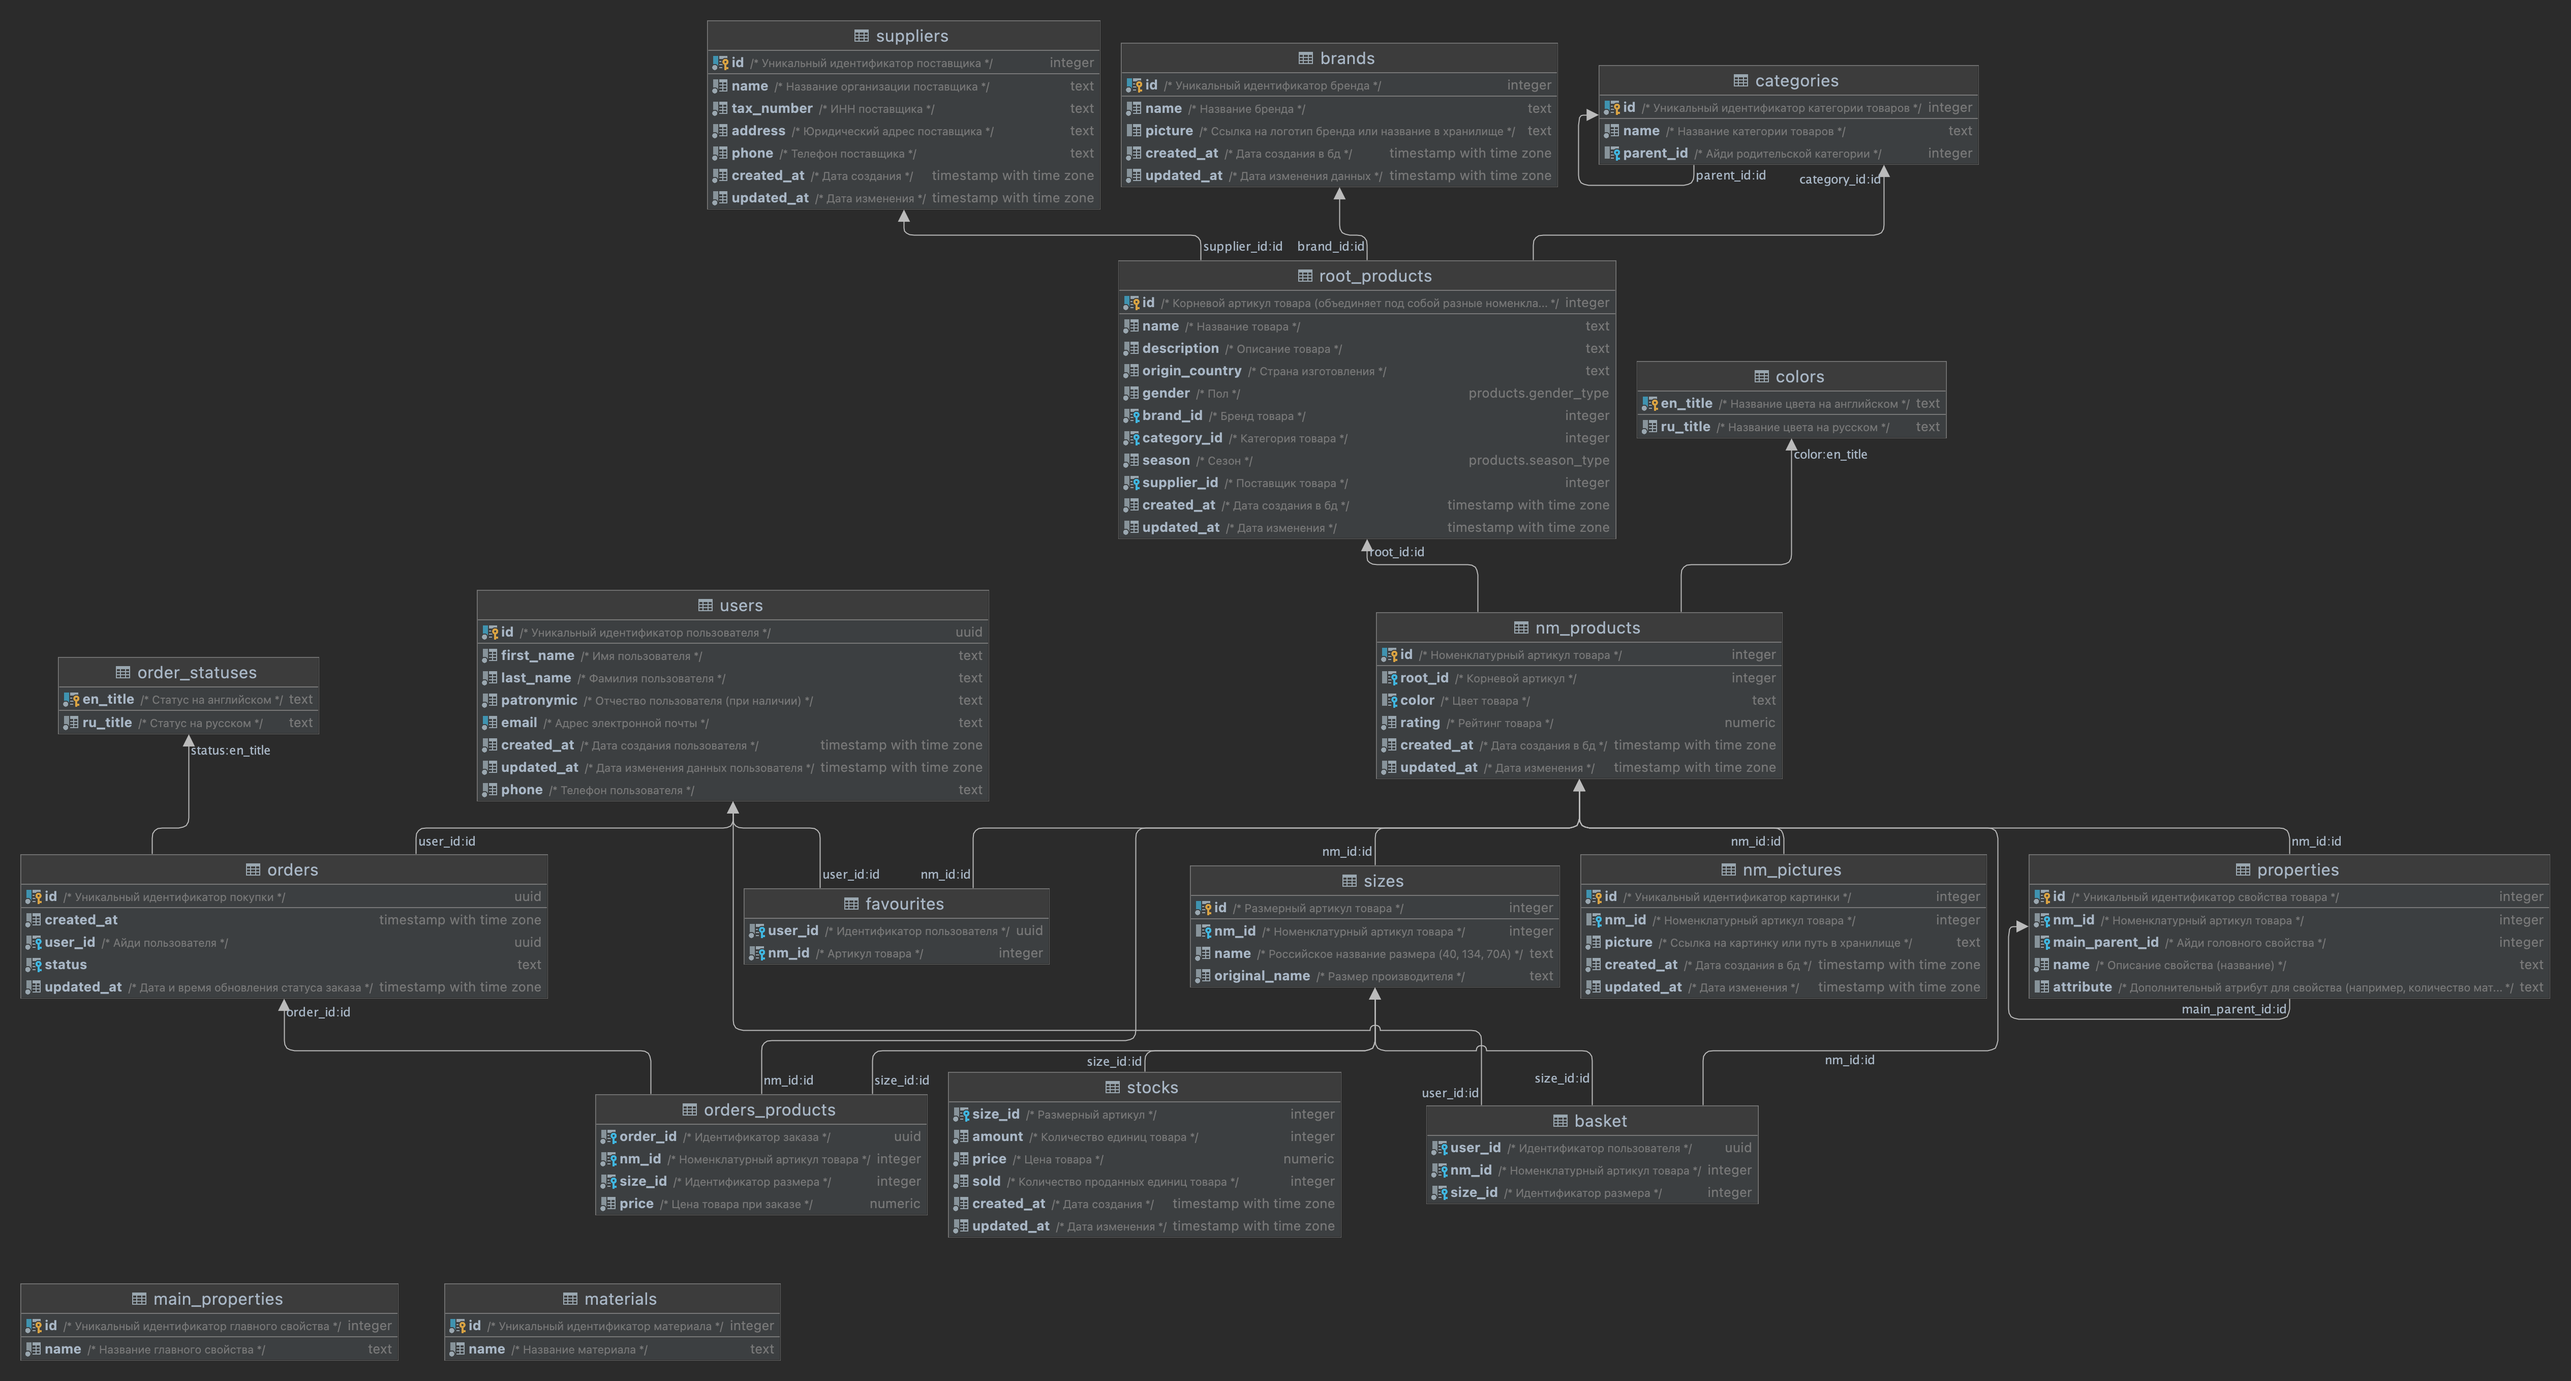
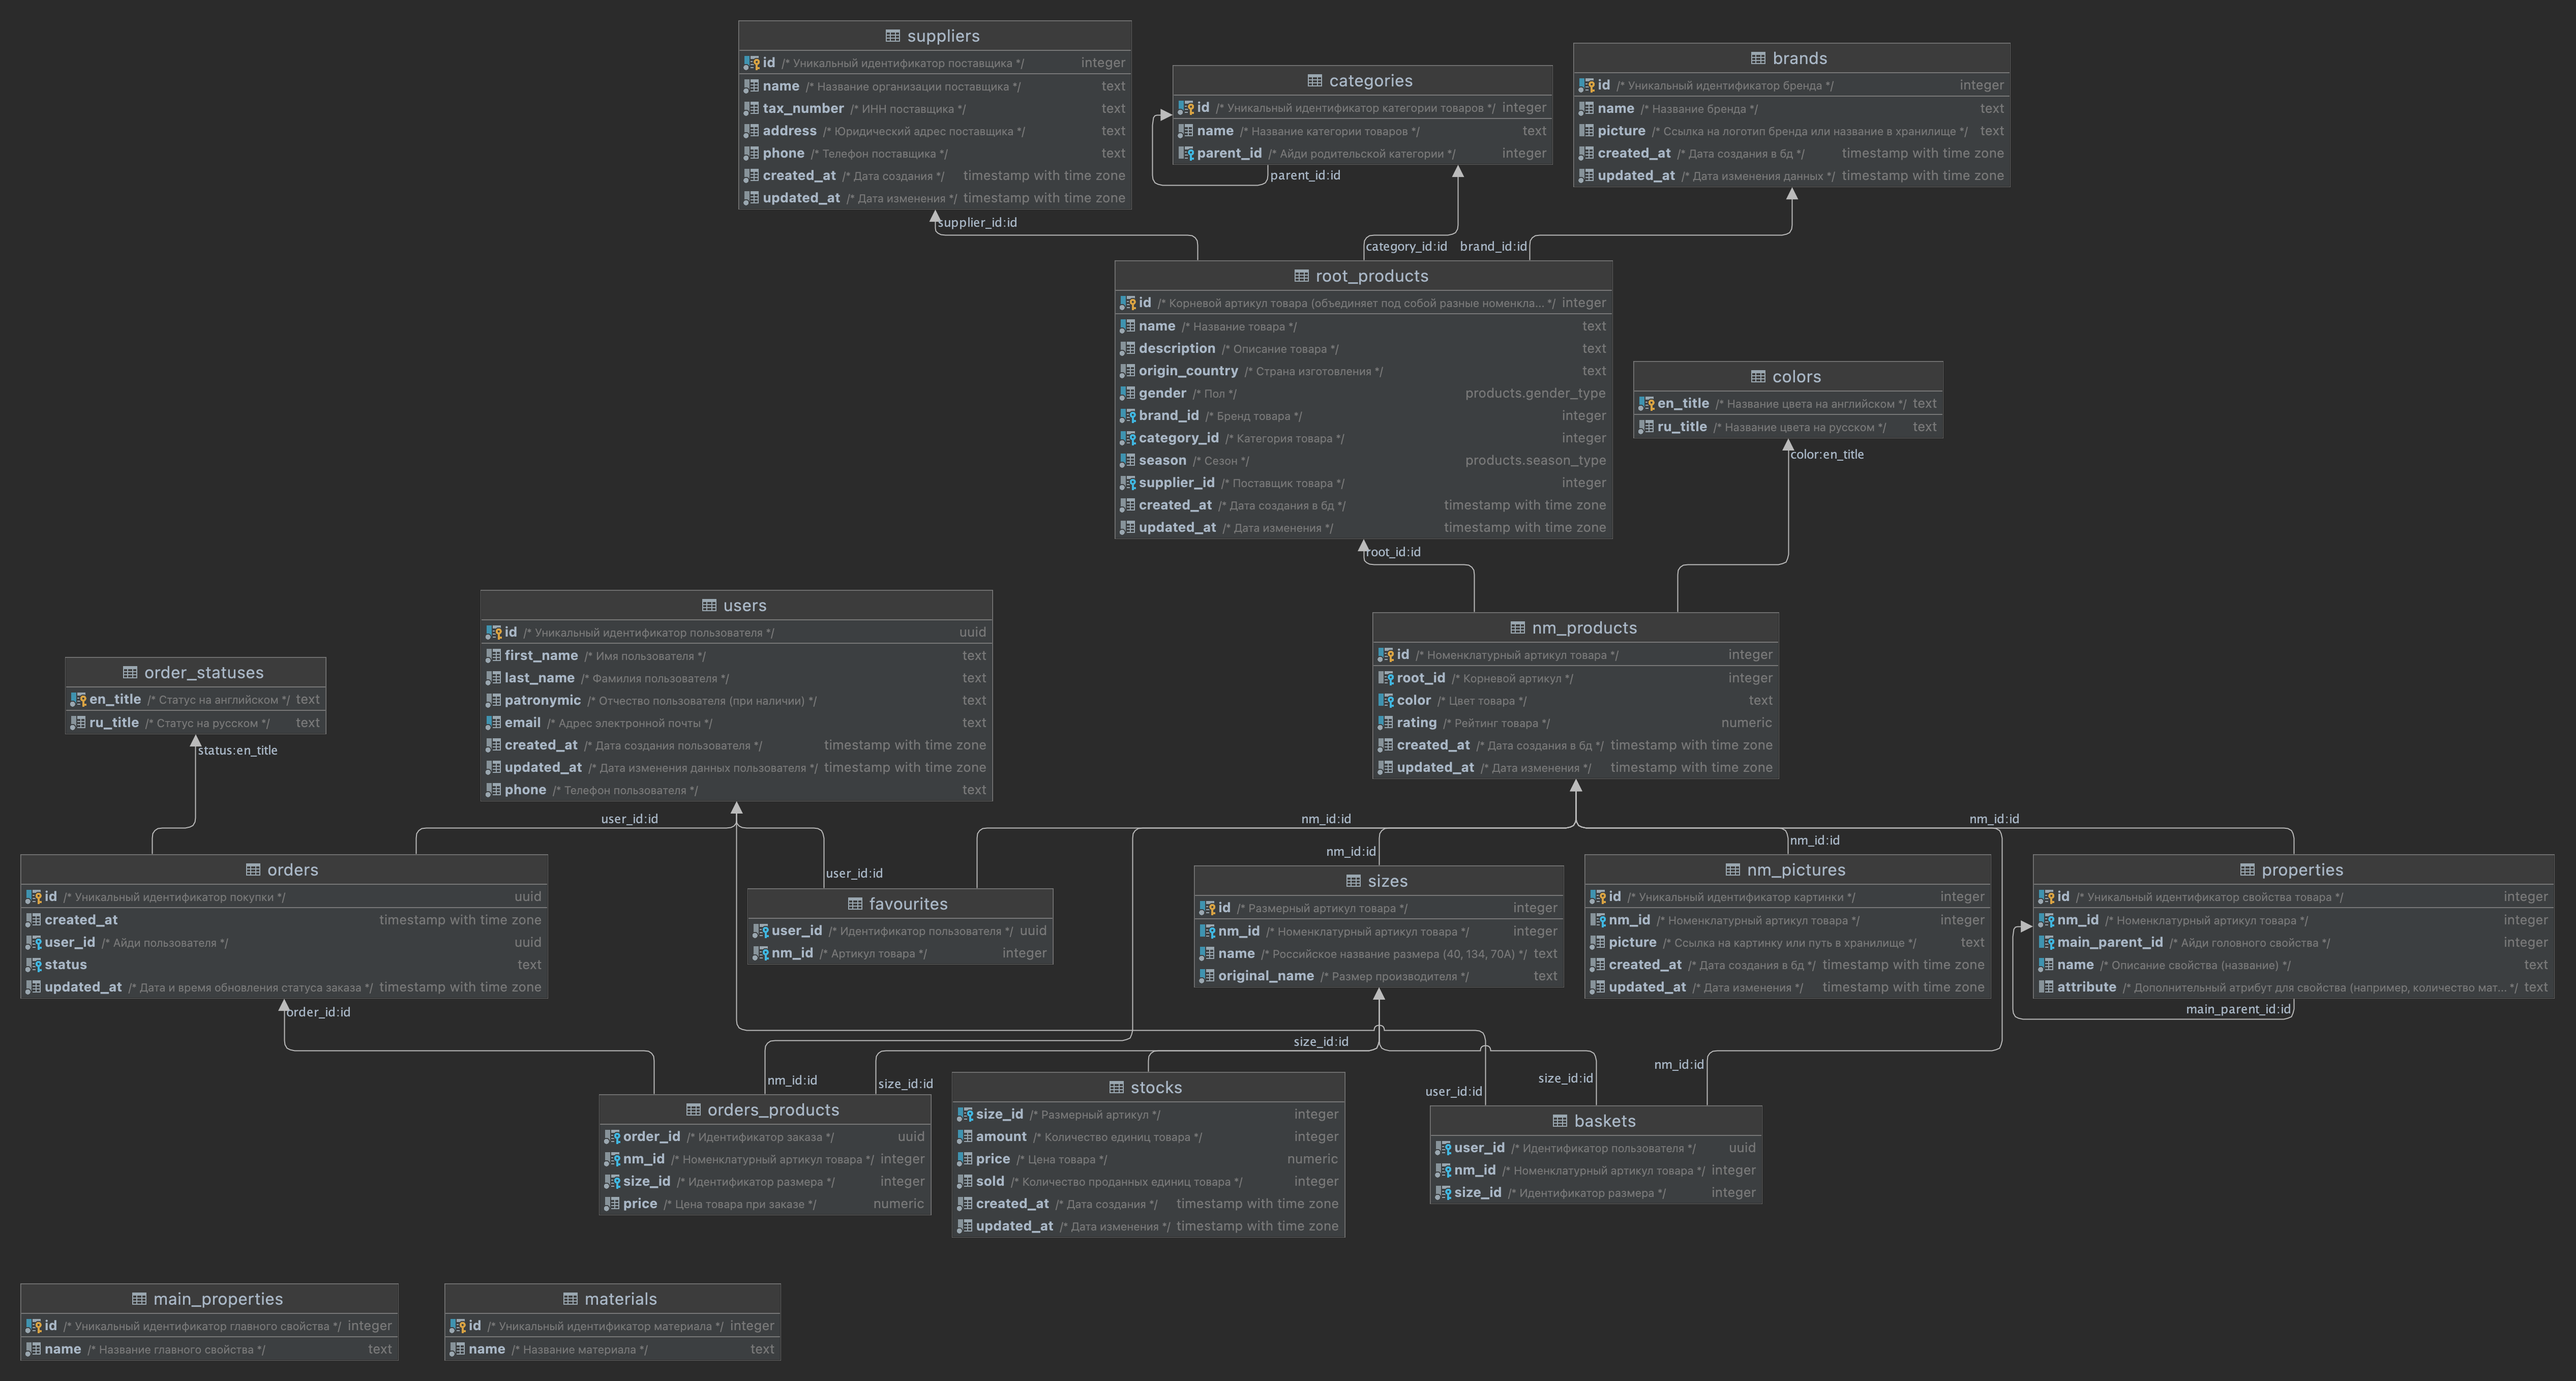
rename basket to baskets

diff --git a/task_1/README.md b/task_1/README.md
@@ -20,7 +20,7 @@
 Используется для хранения данных о пользователях, их избранных товарах и корзине.
 
 ### Таблицы
-1. <b>basket</b> (корзины пользователей)
+1. <b>baskets</b> (корзины пользователей)
 2. <b>favourites</b> (избранные товары пользователей)
 3. <b>users</b> (информация о пользователях)
 4. <b>orders</b> (заказы)
